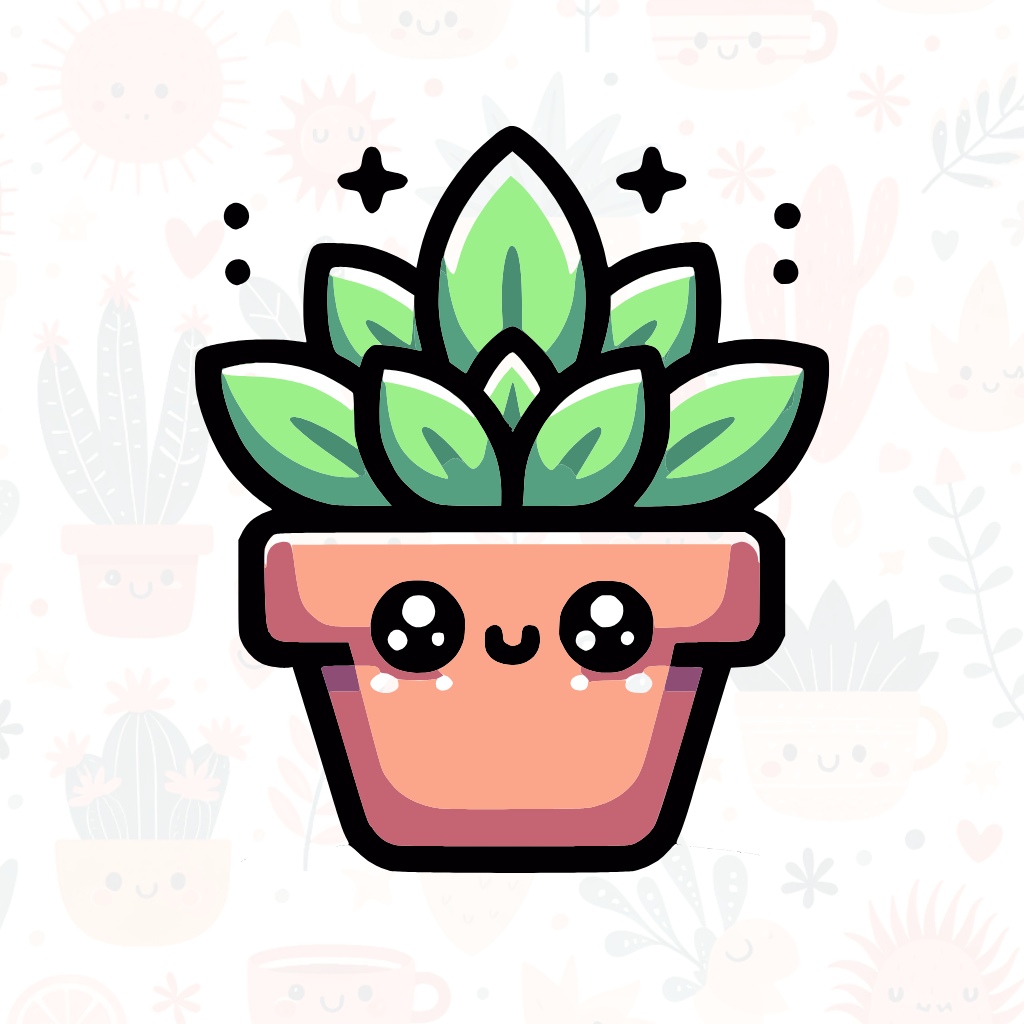
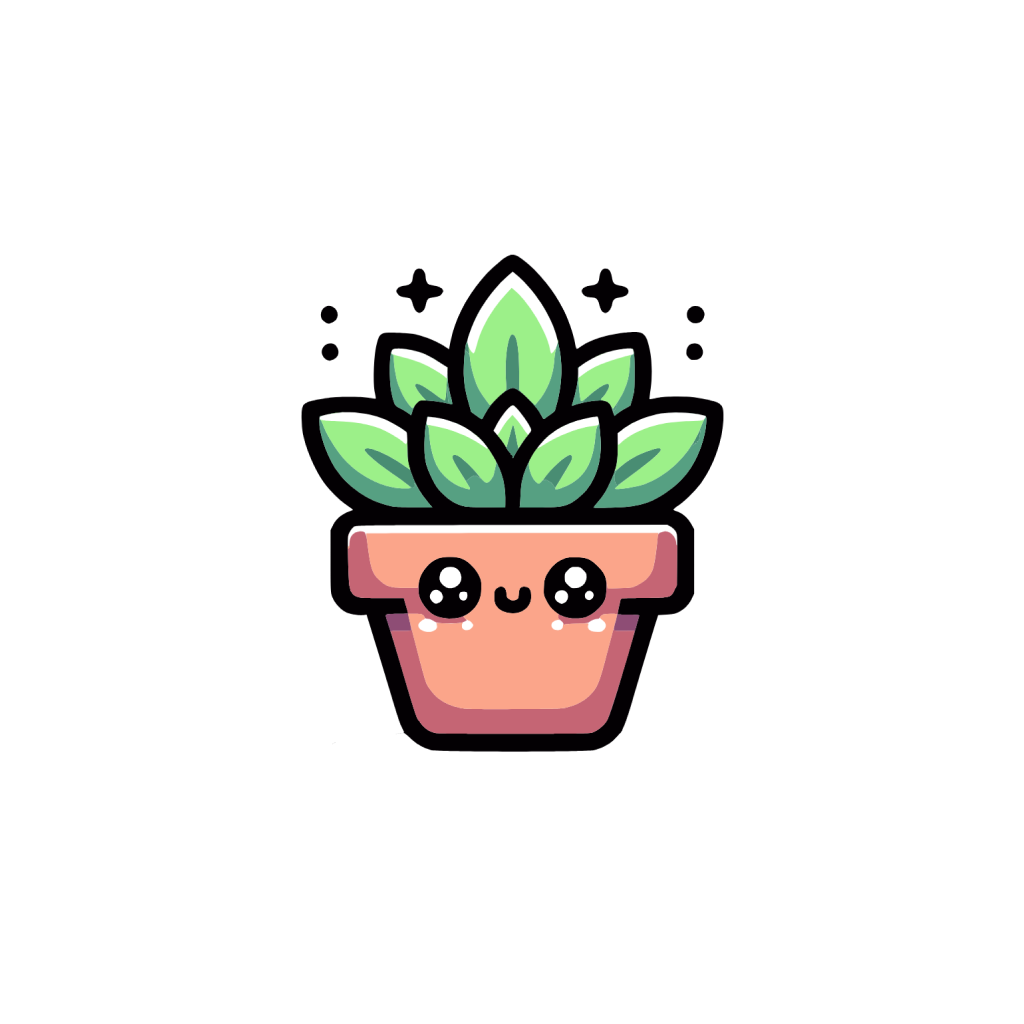
splash screen

diff --git a/app/_layout.tsx b/app/_layout.tsx
@@ -1,4 +1,6 @@
-import { Stack } from "expo-router";
+import { SplashScreen, Stack } from "expo-router";
+
+SplashScreen.preventAutoHideAsync();
 
 export default function RootLayout() {
   return (

diff --git a/app/onboarding.tsx b/app/onboarding.tsx
@@ -49,6 +49,7 @@ const styles = StyleSheet.create({
     textAlign: "center"
   },
   tagline: {
+    paddingHorizontal: 12,
     fontSize: 24,
     color: theme.colorWhite,
     textAlign: "center"
